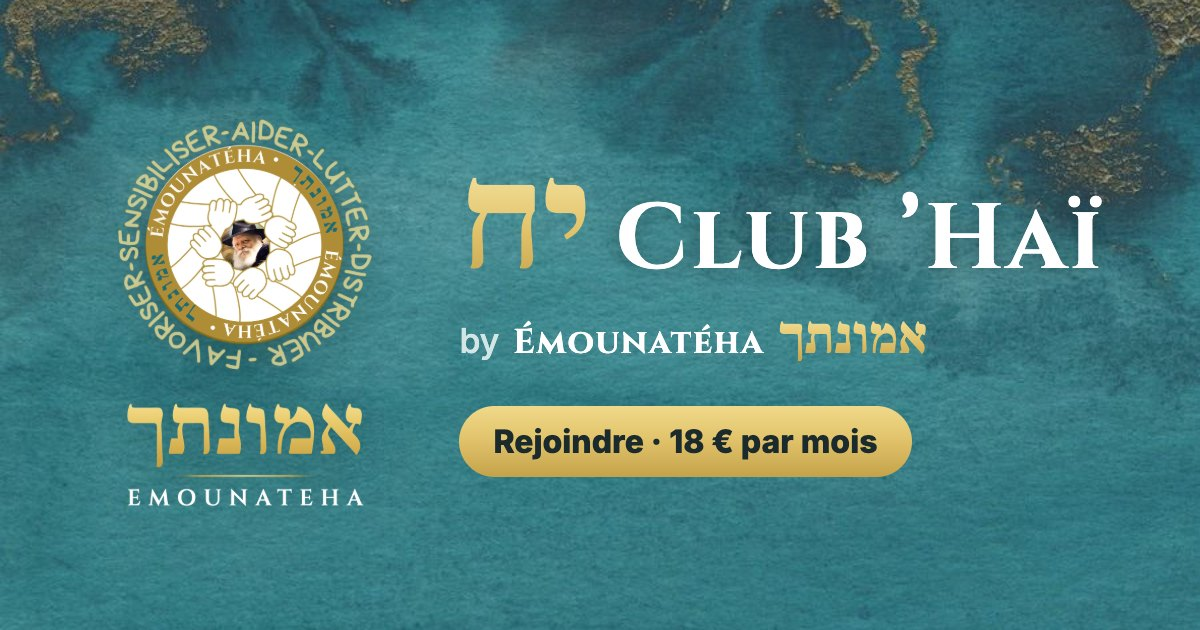
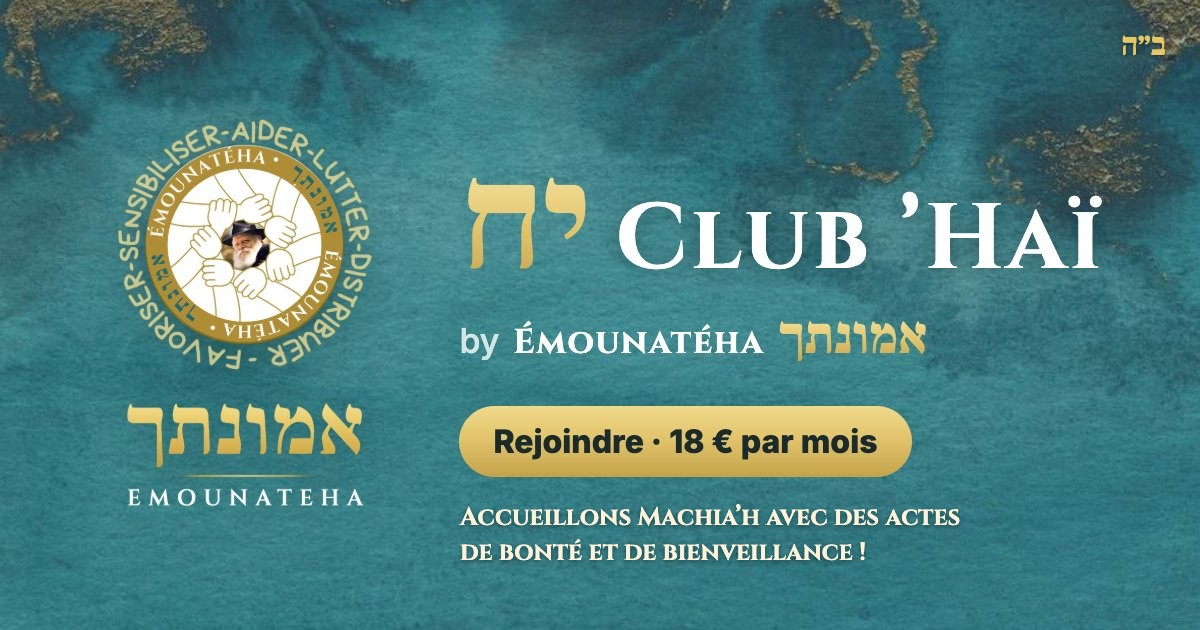
Club 'Haï : aperçu du lien avec ב״ה en haut à droite et « Accueillons Machia'h avec des actes de bonté et de bienveillance ! » (version d'image v=6)
Claude-Session: https://claude.ai/code/session_01FdG1emHFcQYfTSzpEihdUV

Changed region(s): [[0.37, 0.7841, 0.8017, 0.9048], [0.925, 0.0603, 0.9867, 0.0905]]

diff --git a/local-stripe-test/server.js b/local-stripe-test/server.js
@@ -762,7 +762,7 @@ function pageBesoin(b, res, next, chemin) {
     .replace(/(<meta property="og:title" content=")[^"]*(")/, '$1' + q(b.titre) + (b.campagne ? ' — ' + q(b.campagne.etiquette) + ' · Émounatéha$2' : ' — Cagnotte Émounatéha$2'))
     .replace(/(<meta property="og:description" content=")[^"]*(")/, '$1' + q((b.description || 'Participez à cette cagnotte : chaque don compte.').slice(0, 180)) + '$2');
   if (b.campagne && b.campagne.apercu) {   // aperçu du lien partagé (WhatsApp, SMS, réseaux) : l'image propre à la campagne, au format paysage
-    const img = 'https://don.emounateha.fr' + b.campagne.apercu + '?v=5';
+    const img = 'https://don.emounateha.fr' + b.campagne.apercu + '?v=6';
     html = html.replace(/(<meta property="og:image" content=")[^"]*(")/, '$1' + img + '$2').replace(/(<meta name="twitter:image" content=")[^"]*(")/, '$1' + img + '$2')
       .replace(/(<meta property="og:image:width" content=")[^"]*(")/, '$11200$2').replace(/(<meta property="og:image:height" content=")[^"]*(")/, '$1630$2')
       .replace(/(<meta property="og:image:alt" content=")[^"]*(")/, '$1' + q(b.campagne.apercuTitre || b.campagne.etiquette + ' — ' + b.titre) + '$2');
